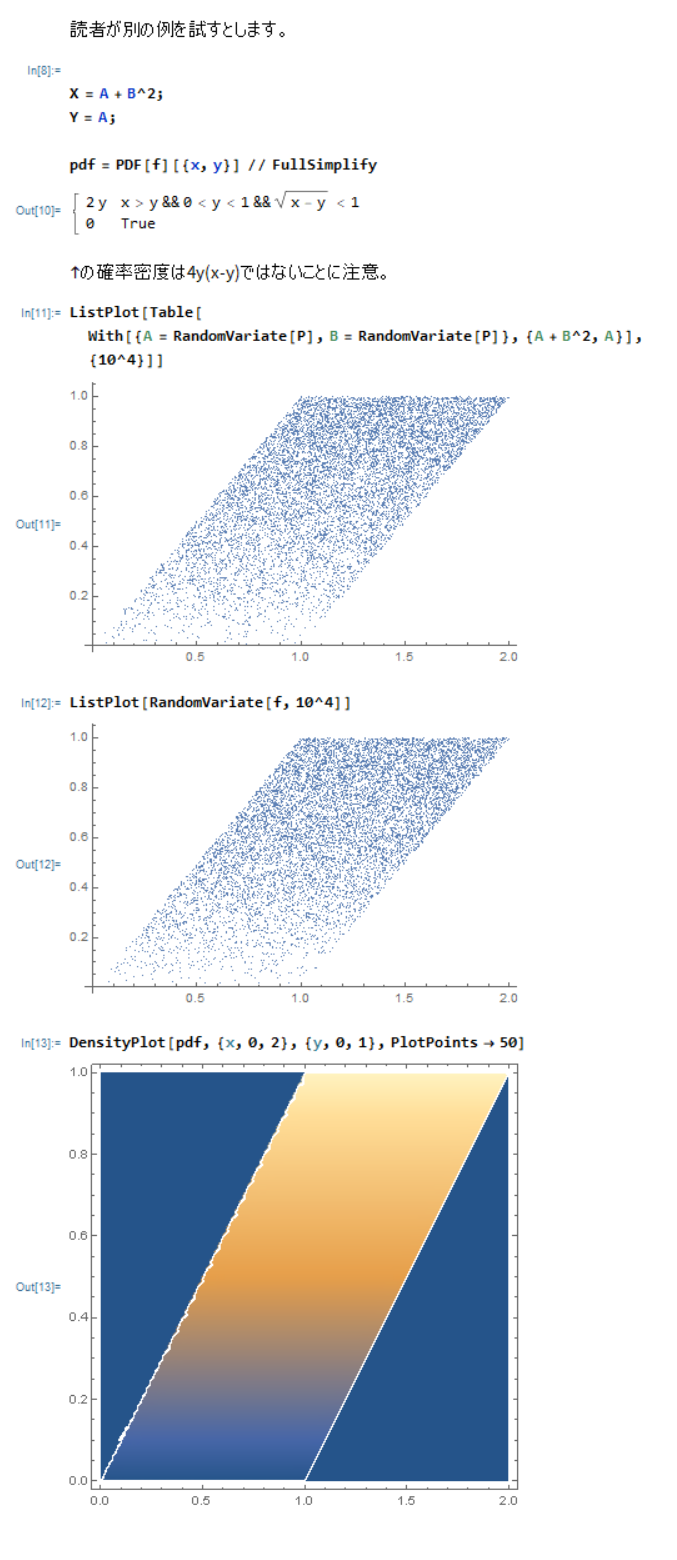
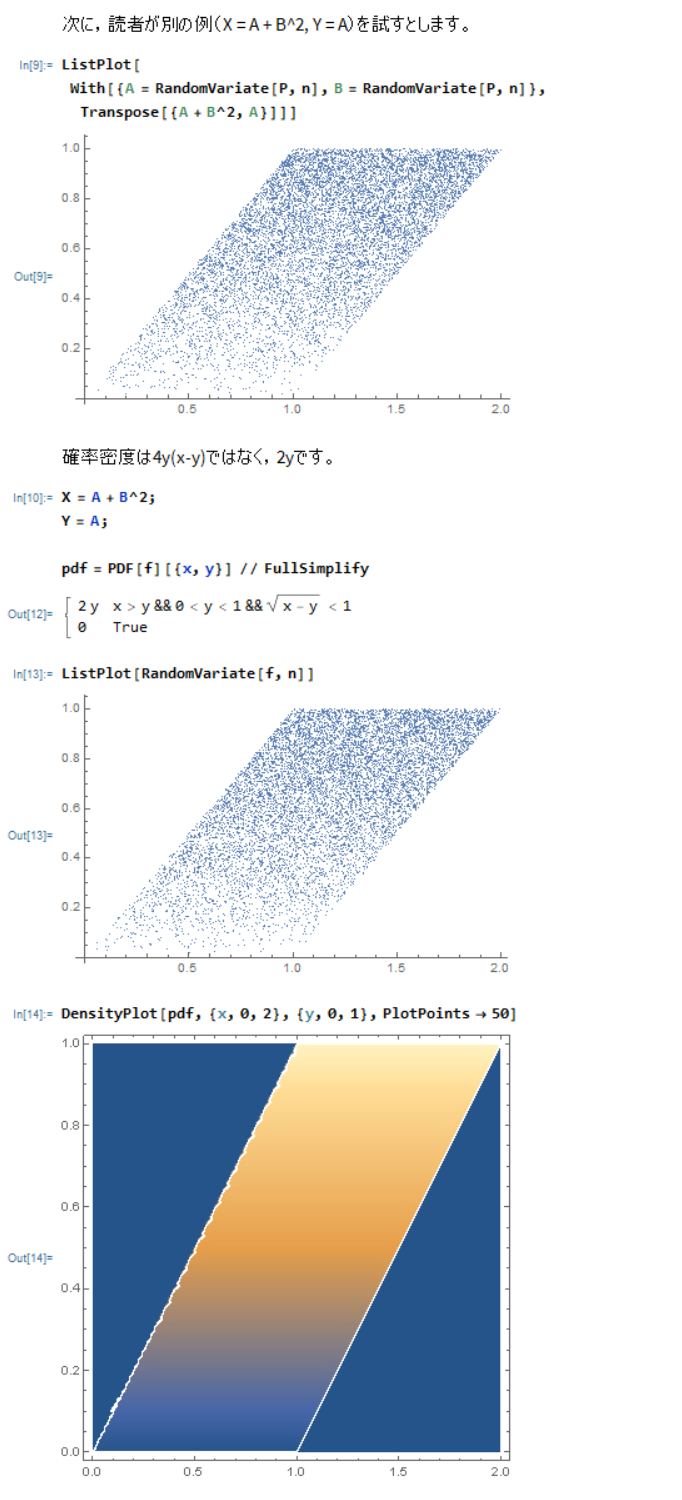
谷合廣紀（著），辻真吾（監修）『Pythonで理解する統計解析の基礎』

diff --git a/_posts/2018-09-17-statistical-analysis-with-python.md b/_posts/2018-09-17-statistical-analysis-with-python.md
@@ -37,17 +37,18 @@ Rubyを使ったシリーズになりそうでならなかった[『プログラ
 ```
 P = ProbabilityDistribution[2 x, {x, 0, 1}];(*ルーレットの確率密度*)
 
+n = 10^4;
+ListPlot[
+ With[{A = RandomVariate[P, n], B = RandomVariate[P, n]},
+  Transpose[{A + B, A}]]]
+
 X = A + B;
 Y = A;
 
 f := TransformedDistribution[{X, Y}, {Distributed[A, P], Distributed[B, P]}];(*確率分布*)
 pdf = PDF[f][{x, y}] // FullSimplify(*密度関数の数式*)
 
-ListPlot[Table[
-  With[{A = RandomVariate[P], B = RandomVariate[P]}, {A + B, A}],
-  {10^4}]]
-
-ListPlot[RandomVariate[f, 10^4]]
+ListPlot[RandomVariate[f, n]]
 
 DensityPlot[pdf, {x, 0, 2}, {y, 0, 1}, PlotPoints -> 50]
 ```
@@ -67,15 +68,16 @@ Mathematicaで確認します。
 キャプチャ中のコードは以下の通りです。
 
 ```
+ListPlot[
+ With[{A = RandomVariate[P, n], B = RandomVariate[P, n]},
+  Transpose[{A + B^2, A}]]]
+
 X = A + B^2;
 Y = A;
+
 pdf = PDF[f][{x, y}] // FullSimplify
 
-ListPlot[Table[
-  With[{A = RandomVariate[P], B = RandomVariate[P]}, {A + B^2, A}],
-  {10^4}]]
-
-ListPlot[RandomVariate[f, 10^4]]
+ListPlot[RandomVariate[f, n]]
 
 DensityPlot[pdf, {x, 0, 2}, {y, 0, 1}, PlotPoints -> 50]
 ```
